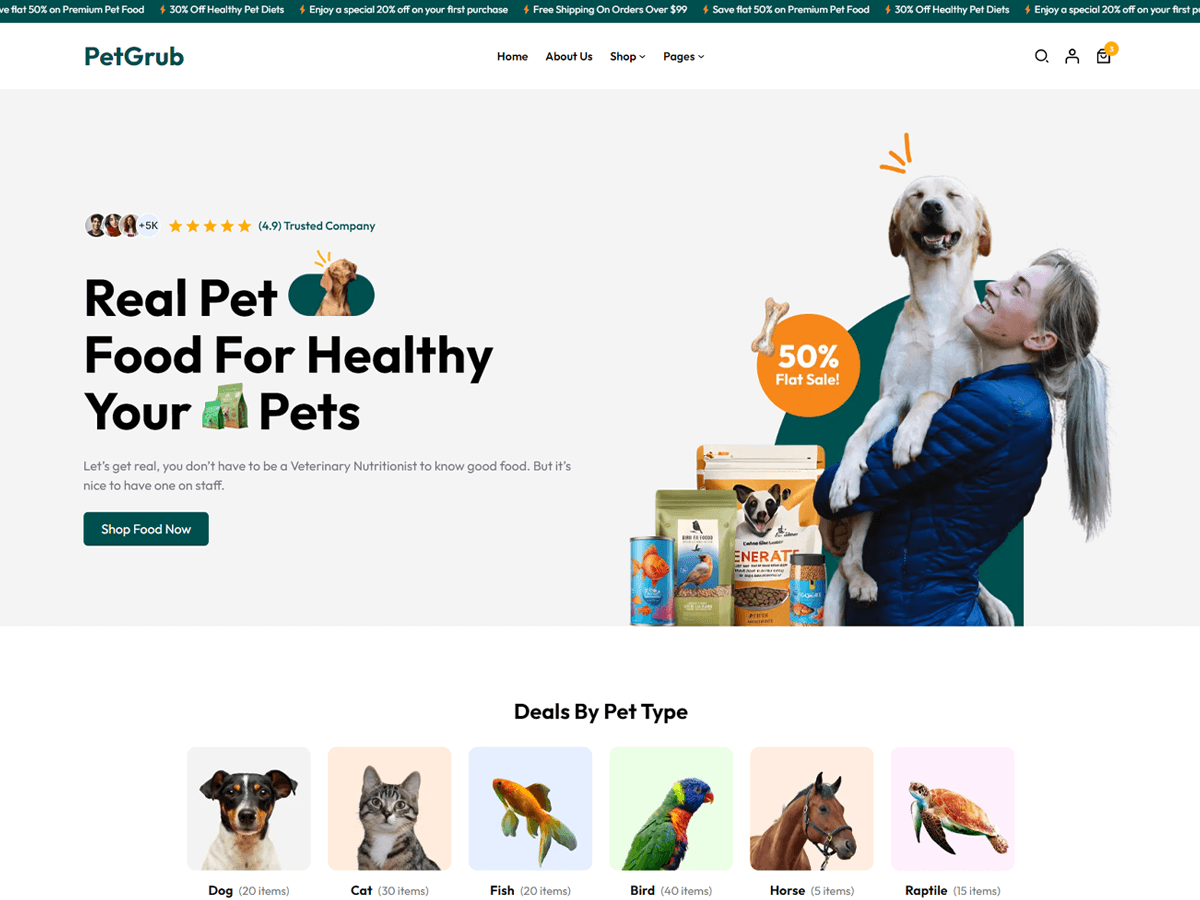
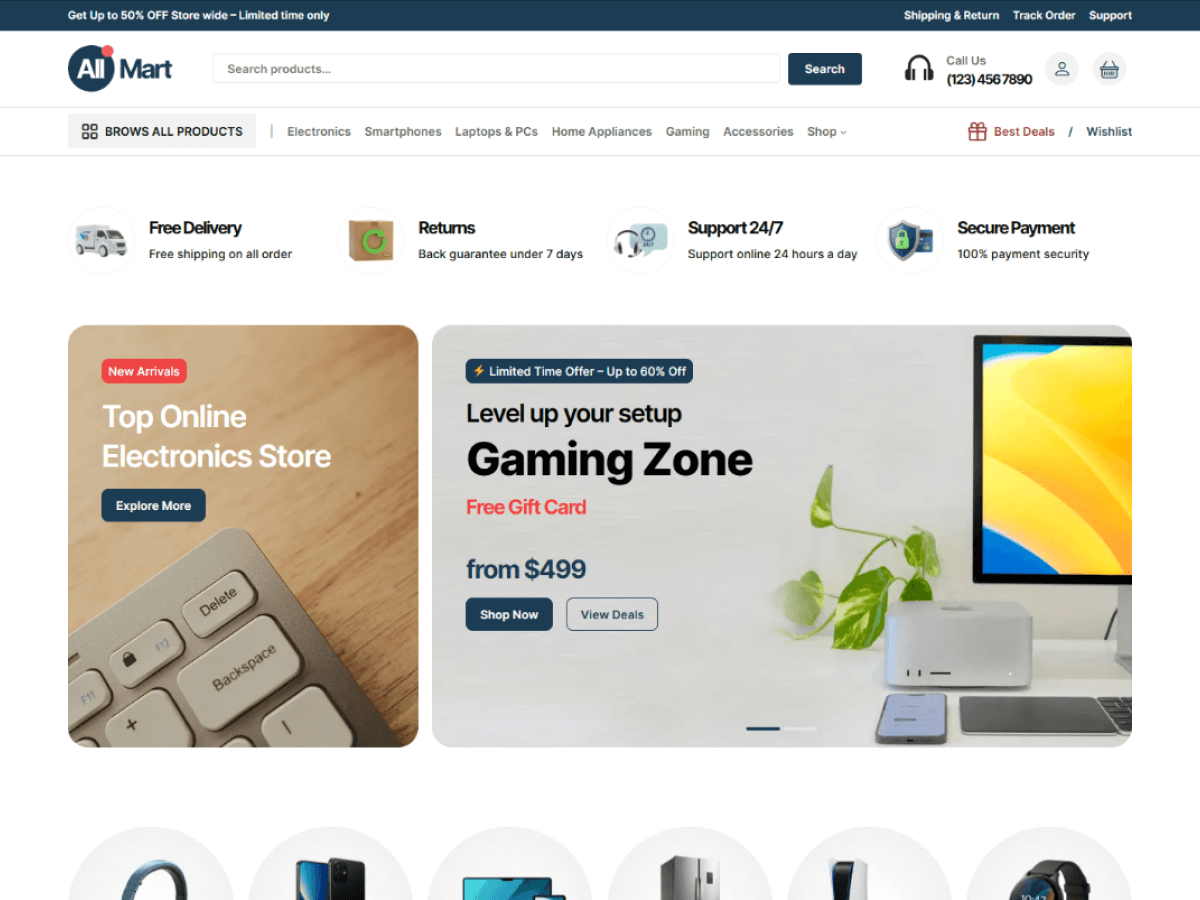
Add Demo Content Link / WooCommerce Style Adjustment

diff --git a/assets/css/editor-styles.css b/assets/css/editor-styles.css
@@ -6637,7 +6637,7 @@ ul.products .attachment-woocommerce_thumbnail,
 .single-product .wp-block-add-to-cart-form form.cart table.variations td {
   text-align: left;
   border: none;
-  padding: 0;
+  padding: 0 12px 0 0;
 }
 @media screen and (max-width: 650px) {
   .single-product .wp-block-add-to-cart-form form.cart table.variations tr {
@@ -6695,10 +6695,10 @@ ul.products .attachment-woocommerce_thumbnail,
       -ms-flex-align: center;
           align-items: center;
   gap: 5px;
-  color: var(--wp--preset--color--card);
+  color: #FF5C5C;
   font-size: var(--wp--preset--font-size--14);
   text-decoration: none;
-  margin-top: 10px;
+  margin-top: 4px;
   /* Smaller Screen */
 }
 @media (min-width: 768px) {
@@ -6711,6 +6711,7 @@ ul.products .attachment-woocommerce_thumbnail,
   font-family: "bootstrap-icons";
 }
 .single-product .wp-block-add-to-cart-form form.cart table.variations tr td .reset_variations:hover {
+  opacity: 0.9;
   color: #FF5C5C;
 }
 .single-product .wp-block-add-to-cart-form form.cart .single_variation_wrap {
@@ -7250,10 +7251,13 @@ div[data-template=archive-product] .site-main .woocommerce-pagination {
 /*
   Yith Wishlist
 */
-.product .yith-add-to-wishlist-button-block,
-.wc-block-grid__product .yith-add-to-wishlist-button-block,
-.wc-block-product .yith-add-to-wishlist-button-block {
+body:not(.single-product) .product .yith-add-to-wishlist-button-block {
   position: absolute;
+}
+
+.product .wc-block-grid__product .yith-add-to-wishlist-button-block,
+.wc-block-product .yith-add-to-wishlist-button-block {
+  position: relative;
 }
 
 .yith-wcwl-add-to-wishlist-button {

diff --git a/assets/css/woocommerce.css b/assets/css/woocommerce.css
@@ -4117,7 +4117,7 @@ ul.products .attachment-woocommerce_thumbnail,
 .single-product .wp-block-add-to-cart-form form.cart table.variations td {
   text-align: left;
   border: none;
-  padding: 0;
+  padding: 0 12px 0 0;
 }
 @media screen and (max-width: 650px) {
   .single-product .wp-block-add-to-cart-form form.cart table.variations tr {
@@ -4175,10 +4175,10 @@ ul.products .attachment-woocommerce_thumbnail,
       -ms-flex-align: center;
           align-items: center;
   gap: 5px;
-  color: var(--wp--preset--color--card);
+  color: #FF5C5C;
   font-size: var(--wp--preset--font-size--14);
   text-decoration: none;
-  margin-top: 10px;
+  margin-top: 4px;
   /* Smaller Screen */
 }
 @media (min-width: 768px) {
@@ -4191,6 +4191,7 @@ ul.products .attachment-woocommerce_thumbnail,
   font-family: "bootstrap-icons";
 }
 .single-product .wp-block-add-to-cart-form form.cart table.variations tr td .reset_variations:hover {
+  opacity: 0.9;
   color: #FF5C5C;
 }
 .single-product .wp-block-add-to-cart-form form.cart .single_variation_wrap {
@@ -4730,10 +4731,13 @@ div[data-template=archive-product] .site-main .woocommerce-pagination {
 /*
   Yith Wishlist
 */
-.product .yith-add-to-wishlist-button-block,
-.wc-block-grid__product .yith-add-to-wishlist-button-block,
-.wc-block-product .yith-add-to-wishlist-button-block {
+body:not(.single-product) .product .yith-add-to-wishlist-button-block {
   position: absolute;
+}
+
+.product .wc-block-grid__product .yith-add-to-wishlist-button-block,
+.wc-block-product .yith-add-to-wishlist-button-block {
+  position: relative;
 }
 
 .yith-wcwl-add-to-wishlist-button {

diff --git a/src/scss/woocommerce/components/_single-product.scss b/src/scss/woocommerce/components/_single-product.scss
@@ -419,7 +419,7 @@
         td {
           text-align: left;
           border: none;
-          padding: 0;
+          padding: 0 12px 0 0;
         }
 
         tr {
@@ -472,10 +472,10 @@
               display: flex;
               align-items: center;
               gap: 5px;
-              color: $card-color;
+              color: $wc-danger;
               font-size: var(--wp--preset--font-size--14);
               text-decoration: none;
-              margin-top: 10px;
+              margin-top: 4px;
 
               @include breakpoint(md) {
                 position: absolute;
@@ -487,6 +487,7 @@
               }
 
               &:hover {
+                opacity: 0.9;
                 color: $wc-danger;
               }
             }

diff --git a/src/scss/woocommerce/compatibility/_yith-wishlist.scss b/src/scss/woocommerce/compatibility/_yith-wishlist.scss
@@ -3,11 +3,16 @@
 */
 
 // Products loop
-.product,
-.wc-block-grid__product,
-.wc-block-product {
+body:not(.single-product) .product {
   .yith-add-to-wishlist-button-block {
     position: absolute;
+  }
+}
+
+.product .wc-block-grid__product,
+.wc-block-product {
+  .yith-add-to-wishlist-button-block {
+    position: relative;
   }
 }
 

diff --git a/includes/ocdi/class-ocdi.php b/includes/ocdi/class-ocdi.php
@@ -35,7 +35,7 @@ if ( ! function_exists( 'allmart_ocdi_import_files' ) ) {
 			}
 
 			// GitHub raw URL.
-			$remote_url = 'https://raw.githubusercontent.com/everestthemes/demo-test/main/contents.xml';
+			$remote_url = 'https://raw.githubusercontent.com/everestthemes/demo-test/refs/heads/main/allmart-contents.xml';
 			$response   = wp_remote_get(
 				$remote_url,
 				array(
@@ -162,9 +162,9 @@ if ( ! function_exists( 'allmart_replace_old_urls_in_content' ) ) {
 		if ( is_array( $all_posts ) && ! empty( $all_posts ) ) {
 			foreach ( $all_posts as $post ) {
 				if ( 'page' === $post->post_type && 'home' === $post->post_name && 'publish' === $post->post_status ) {
-					$shop_page     = get_page_by_title( 'Shop' );
-					$cart_page     = get_page_by_title( 'Cart' );
-					$checkout_page = get_page_by_title( 'Checkout' );
+					$shop_page      = get_page_by_title( 'Shop' );
+					$cart_page      = get_page_by_title( 'Cart' );
+					$checkout_page  = get_page_by_title( 'Checkout' );
 					$myaccount_page = get_page_by_title( 'My account' );
 
 					update_option( 'show_on_front', 'page' );
